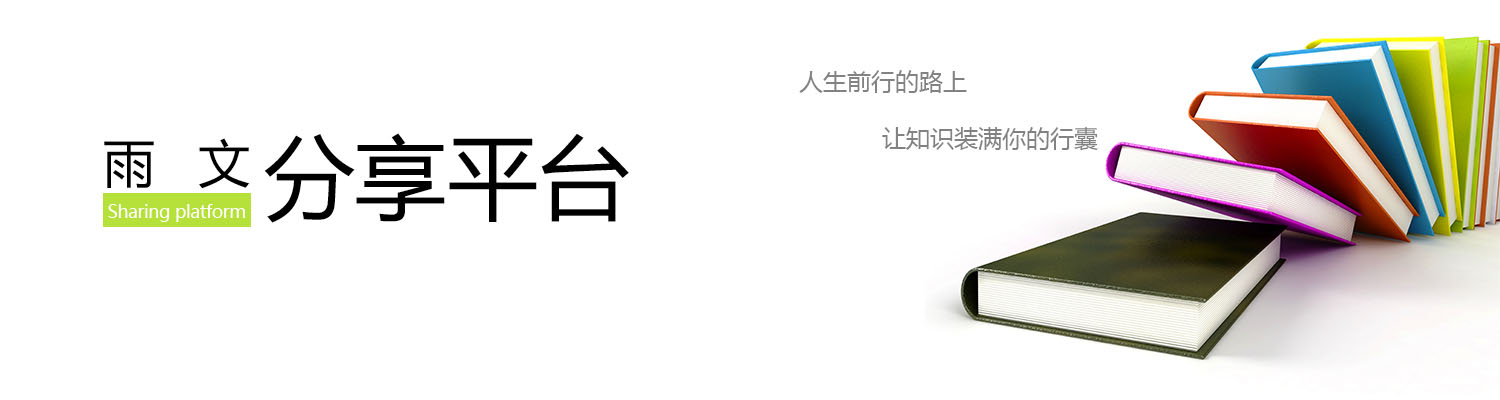
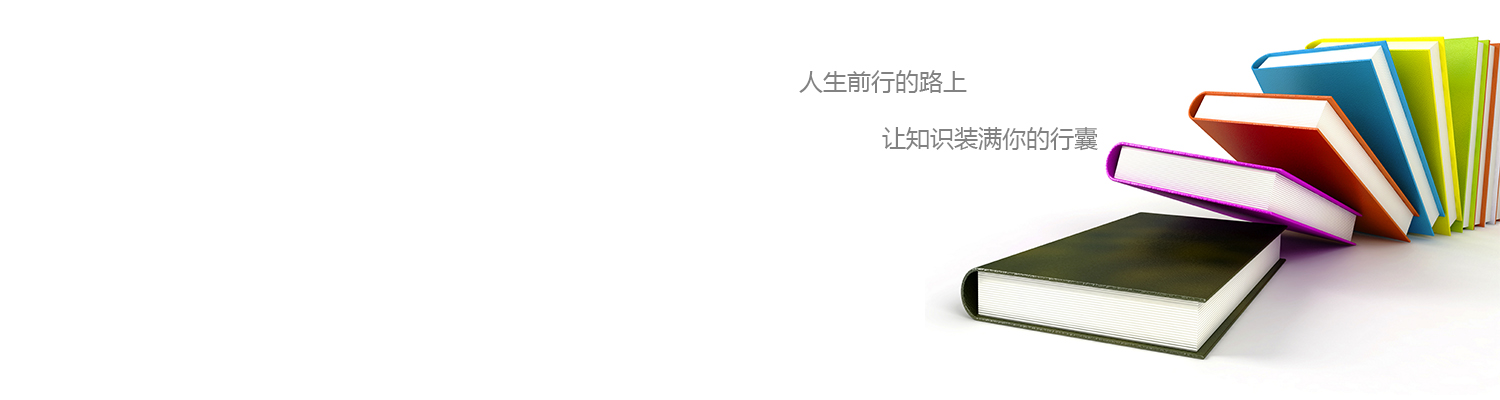
完善了实验室首页，响应式贴合各种设备。
还挺好看的吧:-)

Changed region(s): [[0.0613, 0.33, 0.4293, 0.57]]

diff --git a/lab-webapp/src/main/webapp/WEB-INF/views/index.html b/lab-webapp/src/main/webapp/WEB-INF/views/index.html
@@ -1,119 +1,242 @@
-<#include "macro.ftl" />
-<#include "google_analytics.ftl" />
-<@head title="雨无声实验室">
+<@L.html>
+<@L.head title="雨无声实验室">
 <style type="text/css">
 body {
-	padding: 40px 0;
+	padding-bottom: 40px;
+	color: #5a5a5a;
 }
-.carousel {
-	margin-bottom: 60px;
-	margin-top: 5px;
+.navbar-wrapper {
+	position: absolute;
+	top: 0;
+	left: 0;
+	right: 0;
+	z-index: 10;
+	margin-top: 20px;
+	margin-bottom: -90px;
 }
-.carousel .container {
-	position: relative;
-	z-index: 9;
+.navbar .navbar-inner {
+	border: 0;
+	box-shadow: 0 2px 10px rgba(0, 0, 0, .25);
 }
+.navbar .btn-navbar {
+	margin-top: 10px;
+}
+.navbar .brand {
+	padding: 14px 20px 16px 20px;
+	font-size: 16px;
+	font-weight: bold;
+	color: #fff;
+	text-shadow: 0 -1px 0 rgba(0, 0, 0, .5);
+}
+.navbar .nav > li > a {
+	padding: 15px 20px;
+}
+.btn-group .caret {
+	padding: 4px 0;
+}
+.btn-group {
+	margin-top: 10px !important;
+}
+/* show time */
 .carousel-control {
-	height: 80px;
-	margin-top: 0;
-	font-size: 120px;
-	text-shadow: 0 1px 1px rgba(0,0,0,.4);
 	background-color: transparent;
+	height: 60px;
+	font-size: 120px;
+	top: 44%;
+	left: 10px;
+	right: 10px;
+	text-shadow: 0 1px 1px rgba(0, 0, 0, .4);
 	border: 0;
 	z-index: 10;
 }
 .carousel .item {
-	height: 360px;
+	height: 300px;
 }
 .carousel img {
 	position: absolute;
 	top: 0;
 	left: 0;
 	min-width: 100%;
+	height: 300px;
 }
+.carousel .container {
+	position: relative;
+	z-index: 1;
+}
+.carousel-caption {
+	background-color: transparent;
+	max-width: 600px;
+	padding: 0 20px;
+	position: static;
+	margin-top: 100px;
+}
+.carousel-caption h1, .carousel-caption .lead {
+	margin-bottom: 10px;
+	line-height: 1.25;
+	color: #333;
+	text-shadow: 0 1px 1px rgba(0, 0, 0, .4);
+}
+/* featrue */
 .feature {
-	padding-bottom: 60px;
+	padding-bottom: 20px;
 	overflow: hidden;
 }
 .feature-heading {
 	padding: 40px 0 0 0;
 }
-.item .container{
-	text-shadow: 0 1px 1px rgba(0,0,0,.4);
-	position: relative;
-	top: 210px;
+@media (max-width: 979px) {
+	.btn-group {
+		padding-bottom: 10px !important;
+	}
+	.carousel .item {
+		height: 300px;
+	}
+	.carousel img {
+		width: auto;
+		height: 300px;
+	}
+	.feature img {
+		display: block;
+		float: none;
+		max-width: 40%;
+		margin:  0 auto 20px;
+	}
+}
+@media (max-width: 767px) {
+	.navbar-inner {
+		margin: -20px 0;
+	}
+	.carousel {
+		margin-left: -20px;
+		margin-right: -20px;
+	}
+	.carousel img {
+		height: 200px;
+	}
+	.carousel .item {
+		height: 200px;
+	}
+	.carousel-caption {
+		width: 60%;
+		padding: 0 70px;
+		margin-top: 60px;
+	}
+	.carousel-caption h1 {
+		font-size: 30px;
+	}
+	.carousel-caption .lead, .carousel-caption .btn {
+		font-size: 18px;
+	}
+	.navbar button.btn-navbar {
+		margin-right: 20px;
+	}
+	.feature-heading {
+		font-size: 25px;
+	}
+	.featrue .lead {
+		font-size: 16px;
+		line-height: 1.5;
+	}
+}
+@media (max-width: 480px) {
+	.carousel-caption h1 {
+		font-size: 15px;
+	}
+	.carousel-caption .lead, .carousel-caption .btn {
+		font-size: 12px;
+	}
+	.feature-heading {
+		font-size: 20px;
+	}
+	.featrue .lead {
+		font-size: 12px;
+	}
 }
 </style>
-</@head>
-<body>
-<div class="navbar navbar-inverse navbar-fixed-top">
-	<div class="navbar-inner">
-		<div class="container">
-			<a href="#" class="brand">雨无声实验室</a>
-			<div class="nav-collapse collapse">
-				<ul class="nav">
-					<li class="active"><a href="#">首页</a></li>
-					<li><a href="#">关于</a></li>
-					<li><a href="#">服务条款</a></li>
-					<li><a href="#">更新说明</a></li>
-					<li><a href="//longkai.github.io/lab.newgxu.cn/">实验室开源项目</a></li>
-					<li class="dropdown">
-						<a href="#" class="dropdown-toggle" data-toggle="dropdown">实验室产品 <b class="caret"></b></a>
+</@L.head>
+<div class="navbar-wrapper">
+	<div class="container">
+		<div class="navbar navbar-inverse">
+			<div class="navbar-inner">
+				<button type="button" class="btn btn-navbar" data-toggle="collapse" data-target=".nav-collapse">
+					<span class="icon-bar"></span>
+					<span class="icon-bar"></span>
+					<span class="icon-bar"></span>
+				</button>
+				<a href="#" class="brand">雨无声实验室</a>
+				<div class="nav-collapse collapse">
+					<ul class="nav">
+						<li><a href="#">关于</a></li>
+						<li><a href="#">服务条款</a></li>
+						<li><a href="//github.com/longkai/lab.newgxu.cn/commits/master" target="_blank">更新说明</a></li>
+						<li><a href="//longkai.github.io/lab.newgxu.cn/" target="_blank">实验室开源项目</a></li>
+						<li class="dropdown">
+							<a href="#" class="dropdown-toggle" data-toggle="dropdown">实验室产品 <b class="caret"></b></a>
+							<ul class="dropdown-menu">
+								<li><a href="//share.newgxu.cn">分享平台</a></li>
+								<li><a href="/info/">校园信息发布平台</a></li>
+							</ul>
+						</li>
+					</ul>
+					<div class="btn-group pull-right">
+						<a class="btn btn-success" href="#"><i class="icon-home icon-white"></i> 雨无声</a>
+						<a class="btn btn-info dropdown-toggle" data-toggle="dropdown" href="#"><span class="caret"></span></a>
 						<ul class="dropdown-menu">
-							<li><a href="//share.newgxu.cn">分享平台</a></li>
-							<li><a href="/info/">信息发布平台</a></li>
+							<li><a href="//www.newgxu.cn"><i class="icon-home"></i> 首页</a></li>
+							<li class="divider"></li>
+							<li><a href="//bbs.newgxu.cn"><i class="icon-hand-right"></i> 雨无声论坛</a></li>
+							<li><a href="//www.newgxu.cn/7.0/html/zxkd/"><i class="icon-hand-right"></i> 雨无声新闻网</a></li>
+							<li><a href="//www.newgxu.cn/7.0/html/sjw/"><i class="icon-hand-right"></i> 雨无声视界网</a></li>
 						</ul>
-					</li>
-				</ul>
-			</div>
-			<div class="btn-group pull-right">
-				<a class="btn btn-success" href="#"><i class="icon-home icon-white"></i> 雨无声</a>
-				<a class="btn btn-success dropdown-toggle" data-toggle="dropdown" href="#"><span class="caret"></span></a>
-				<ul class="dropdown-menu">
-					<li><a href="//www.newgxu.cn"><i class="icon-home"></i> 首页</a></li>
-					<li><a href="//bbs.newgxu.cn"><i class="icon-hand-right"></i> 雨无声论坛</a></li>
-					<li><a href="//www.newgxu.cn/7.0/html/zxkd/"><i class="icon-hand-right"></i> 雨无声新闻网</a></li>
-					<li><a href="//www.newgxu.cn/7.0/html/sjw/"><i class="icon-hand-right"></i> 雨无声视界网</a></li>
-				</ul>
+					</div>
+				</div>
 			</div>
 		</div>
 	</div>
 </div>
-
-<div id="show" class="carousel slide">
+<div id="showtime" class="carousel slide">
 	<div class="carousel-inner">
 		<div class="item active">
-			<img src="/resources/images/lab/index/lab.jpg" alt="" />
+			<img src="/resources/images/lab/index/lab.jpg" alt="雨无声实验室" />
 			<div class="container">
-				<h1>创意与创造的地方</h1>
+				<div class="carousel-caption">
+					<h1>雨无声实验室</h1>
+					<p class="lead">创意与创造的地方</p>
+					<a href="#" class="btn btn-large btn-primary">详细介绍</a>
+				</div>
 			</div>
 		</div>
 		<div class="item">
 			<img src="/resources/images/lab/index/share.jpg" alt="" />
 			<div class="container">
-				<h1>一起打造我们的西大文库</h1>
-				<a class="btn btn-large btn-primary" href="#app_share">简介</a>
-				<a class="btn btn-large btn-success" href="//share.newgxu.cn">传送门</a>
+				<div class="carousel-caption">
+					<h1>分享平台</h1>
+					<p class="lead">一起打造我们的西大文库</p>
+					<a class="btn btn-large btn-primary" href="#app_share">简介</a>
+					<a class="btn btn-large btn-success" href="//share.newgxu.cn">传送门</a>
+				</div>
 			</div>
 		</div>
 		<div class="item">
 			<img src="/resources/images/lab/index/info.jpg" alt="" />
 			<div class="container">
-				<h1>轻松，即时获取校园一手信息</h1>
-				<a class="btn btn-large btn-primary" href="#app_info">简介</a>
-				<a class="btn btn-large btn-success" href="/info/">传送门</a>
+				<div class="carousel-caption">
+					<h1>校园信息发布平台</h1>
+					<p class="lead">轻松，即时获取校园一手信息</p>
+					<a class="btn btn-large btn-primary" href="#app_info">简介</a>
+					<a class="btn btn-large btn-success" href="/info/">传送门</a>
+				</div>
 			</div>
 		</div>
 	</div>
-	<a class="left carousel-control" href="#show" data-slide="prev">&lsaquo;</a>
-	<a class="right carousel-control" href="#show" data-slide="next">&rsaquo;</a>
+	<a href="#showtime" class="left carousel-control" data-slide="prev">&lsaquo;</a>
+	<a href="#showtime" class="right carousel-control" data-slide="next">&rsaquo;</a>
 </div>
-
 <div class="container">
 	<div class="feature">
 		<img class="feature-image pull-right" src="/resources/images/lab/index/lab_feature.png">
 		<h2 class="feature-heading">雨无声实验室 <span class="muted">创意与创造的地方</span></h2>
-		<p class="lead">雨无声实验室是一个面向于西大师生的服务型平台。提供一系列实际生活，学习等方面的便捷服务。另一方面，实验室也乐意提供给那些渴望展现自己的能力，分享自己的创意的同学。在实验室，不管是你是雨无声人，还是西大人，都可以参与进来.不要担心自己是电脑盲，计算机技术只是实现创意的一种手段，我们需要的是创意。把你的想法，能力共享出来，雨无声人，西大人，会技术的，不会技术的，我们一起来孵化。</p>
+		<p class="lead about">雨无声实验室是一个面向于西大师生的服务型平台。提供一系列实际生活，学习等方面的便捷服务。另一方面，实验室也乐意提供给那些渴望展现自己的能力，分享自己的创意的同学。在实验室，不管是你是雨无声人，还是西大人，都可以参与进来.不要担心自己是电脑盲，计算机技术只是实现创意的一种手段，我们需要的是创意。把你的想法，能力共享出来，雨无声人，西大人，会技术的，不会技术的，我们一起来孵化。</p>
 	</div>
 	<div class="feature" id="app_info">
 		<img class="feature-image pull-left" src="/resources/images/lab/index/info_feature.png" title="去瞅瞅有什么信息~">
@@ -129,15 +252,16 @@ body {
 
 <div class="container">
 	<footer>
+		<p class="pull-right"><a href="#">回到顶部</a></p>
 		<p>&copy; 2001-2013 <a href="//www.newgxu.cn">newgxu.cn</a> &middot;All Rights Reserved.</p>
 	</footer>
 </div>
 </body>
-<@script>
+<@L.script>
 <script>
 !function ($) {
 	$(function(){
-		$('#show').carousel();
+		$('#showtime').carousel();
 		$('#app_info h2').css('cursor', 'pointer').click(function(e) {
 			e.preventDefault();
 			location.href = '/info/';
@@ -157,5 +281,6 @@ body {
 	})
 }(window.jQuery)
 </script>
-<@ga_lab />
-</@script>
+<@L.ga_lab />
+</@L.script>
+</@L.html>
